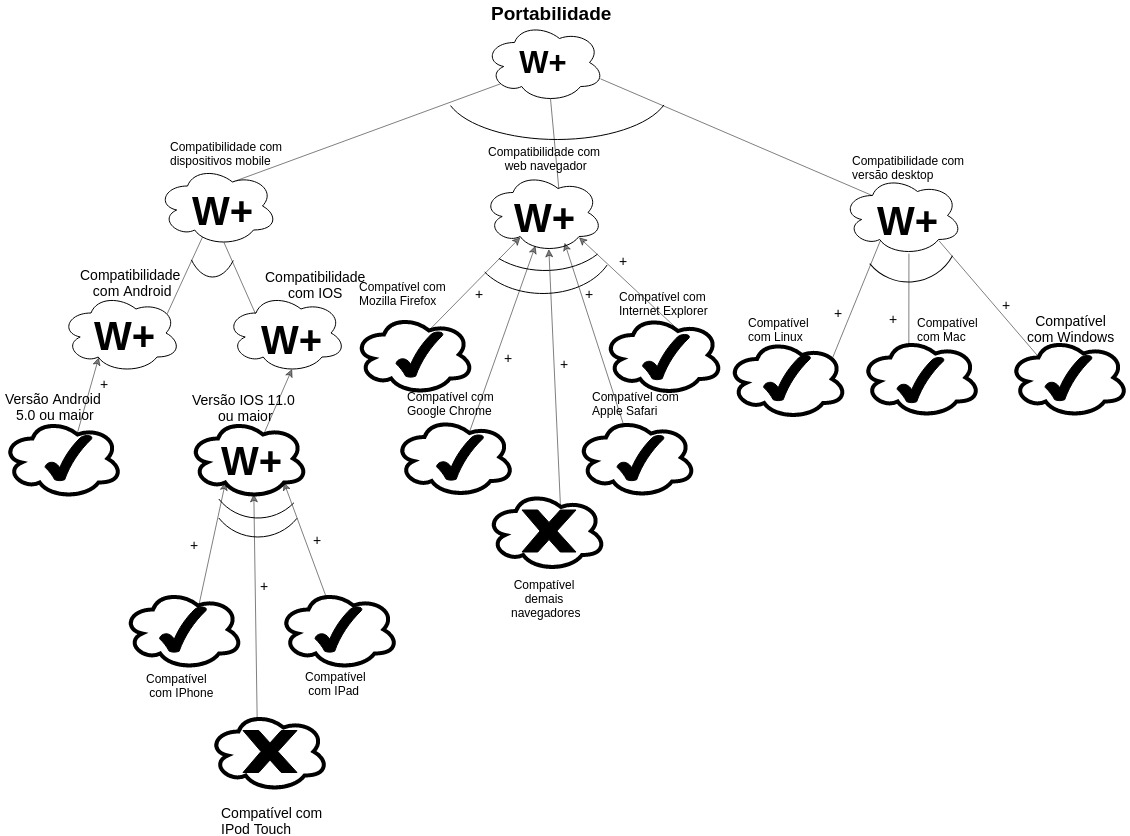
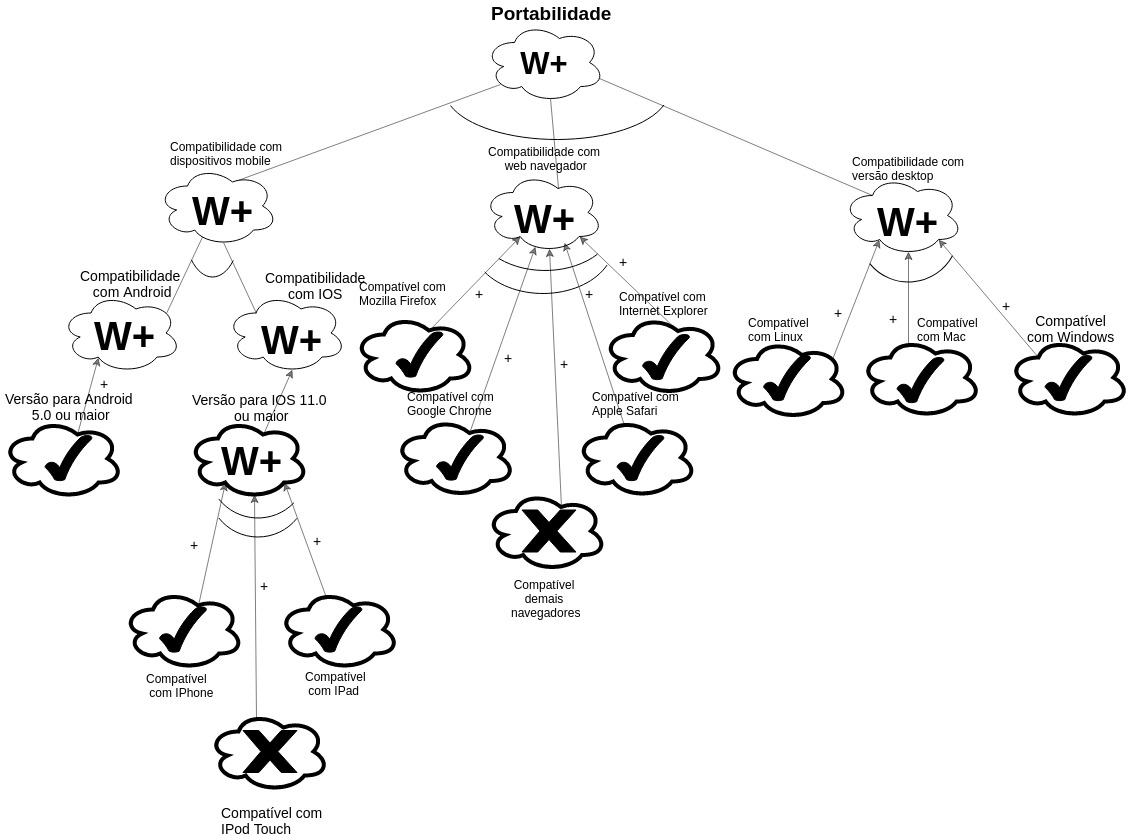
adding nfr

diff --git a/docs/Modelagem/nfr.md b/docs/Modelagem/nfr.md
@@ -26,6 +26,12 @@ O NFR é um framework orientado a metas, que busca representar requisitos não f
 
 ![NFR03](../img/Modelagem/nfr_suporte_v1.jpg)
 
+### Versão 02
+
+![NFR03](../img/Modelagem/nfr_suporte_limpo_v2.jpg)
+
+![NFR03](../img/Modelagem/nfr_suporte_analise_v2.jpg)
+
 ## NFR4 - Usabilidade
 
 ### Versão 01
@@ -65,3 +71,4 @@ O NFR é um framework orientado a metas, que busca representar requisitos não f
 | 27/05/2019 | 1.6 | Adição do NFR6 - V1        | Lucas Maciel |
 | 28/05/2019 | 1.7 | Adição do NFR1 - Versão 02 | Heron Rodrigues |
 | 28/05/2019 | 1.8 | Adição do NFR5 - Versão 02 | Weiller Fernandes |
+| 28/05/2019 | 1.9 | Adição do NFR3 - Versão 02 | Heron Rodrigues |
